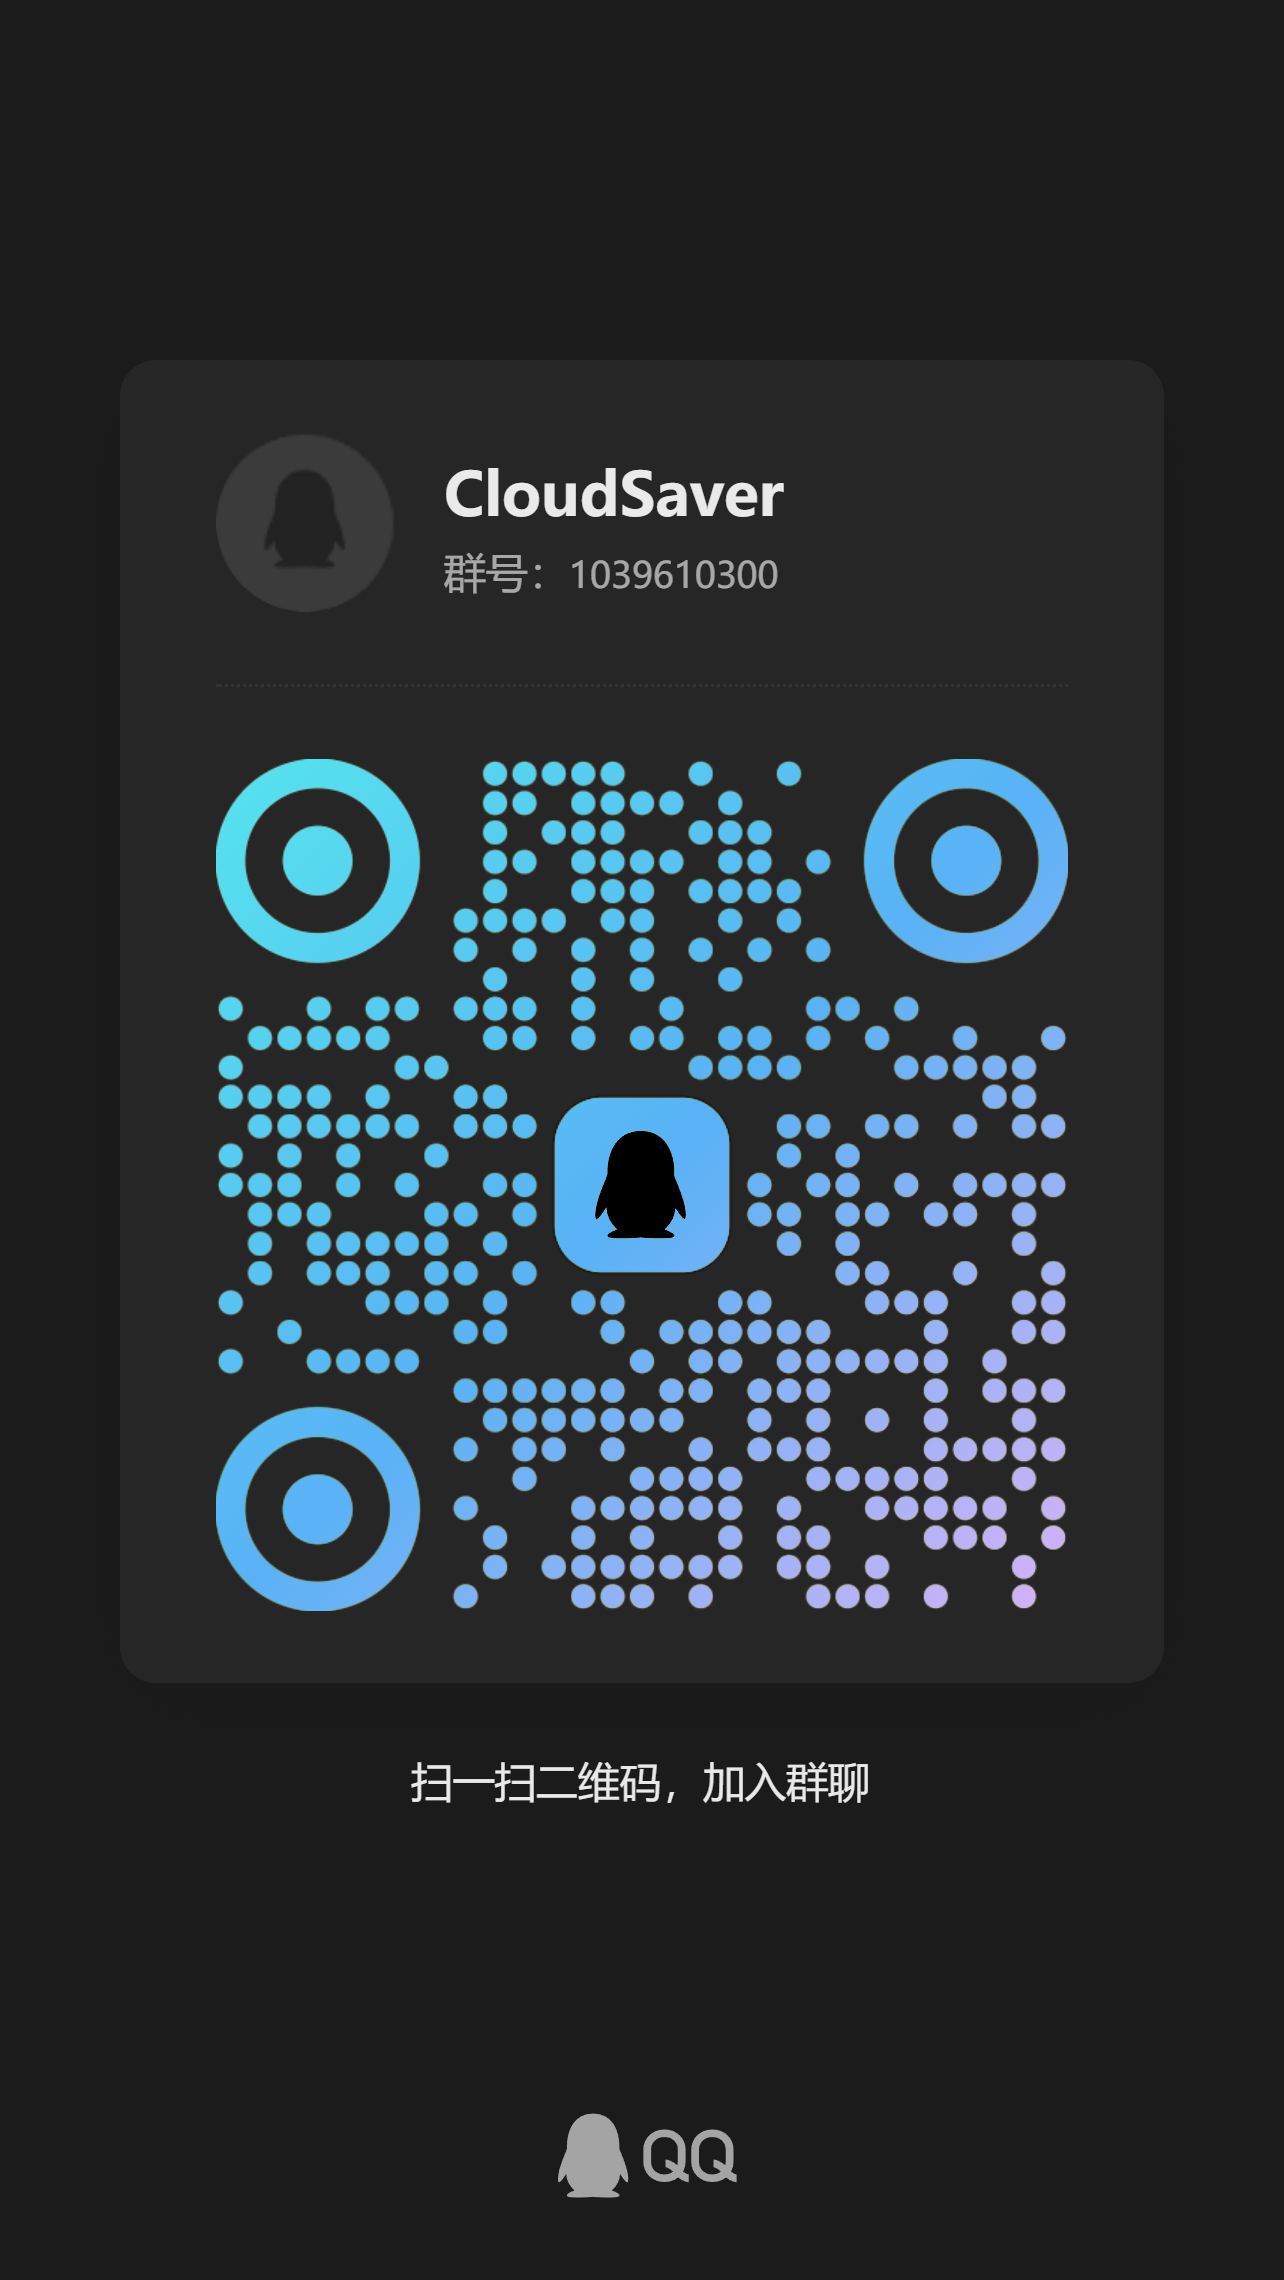
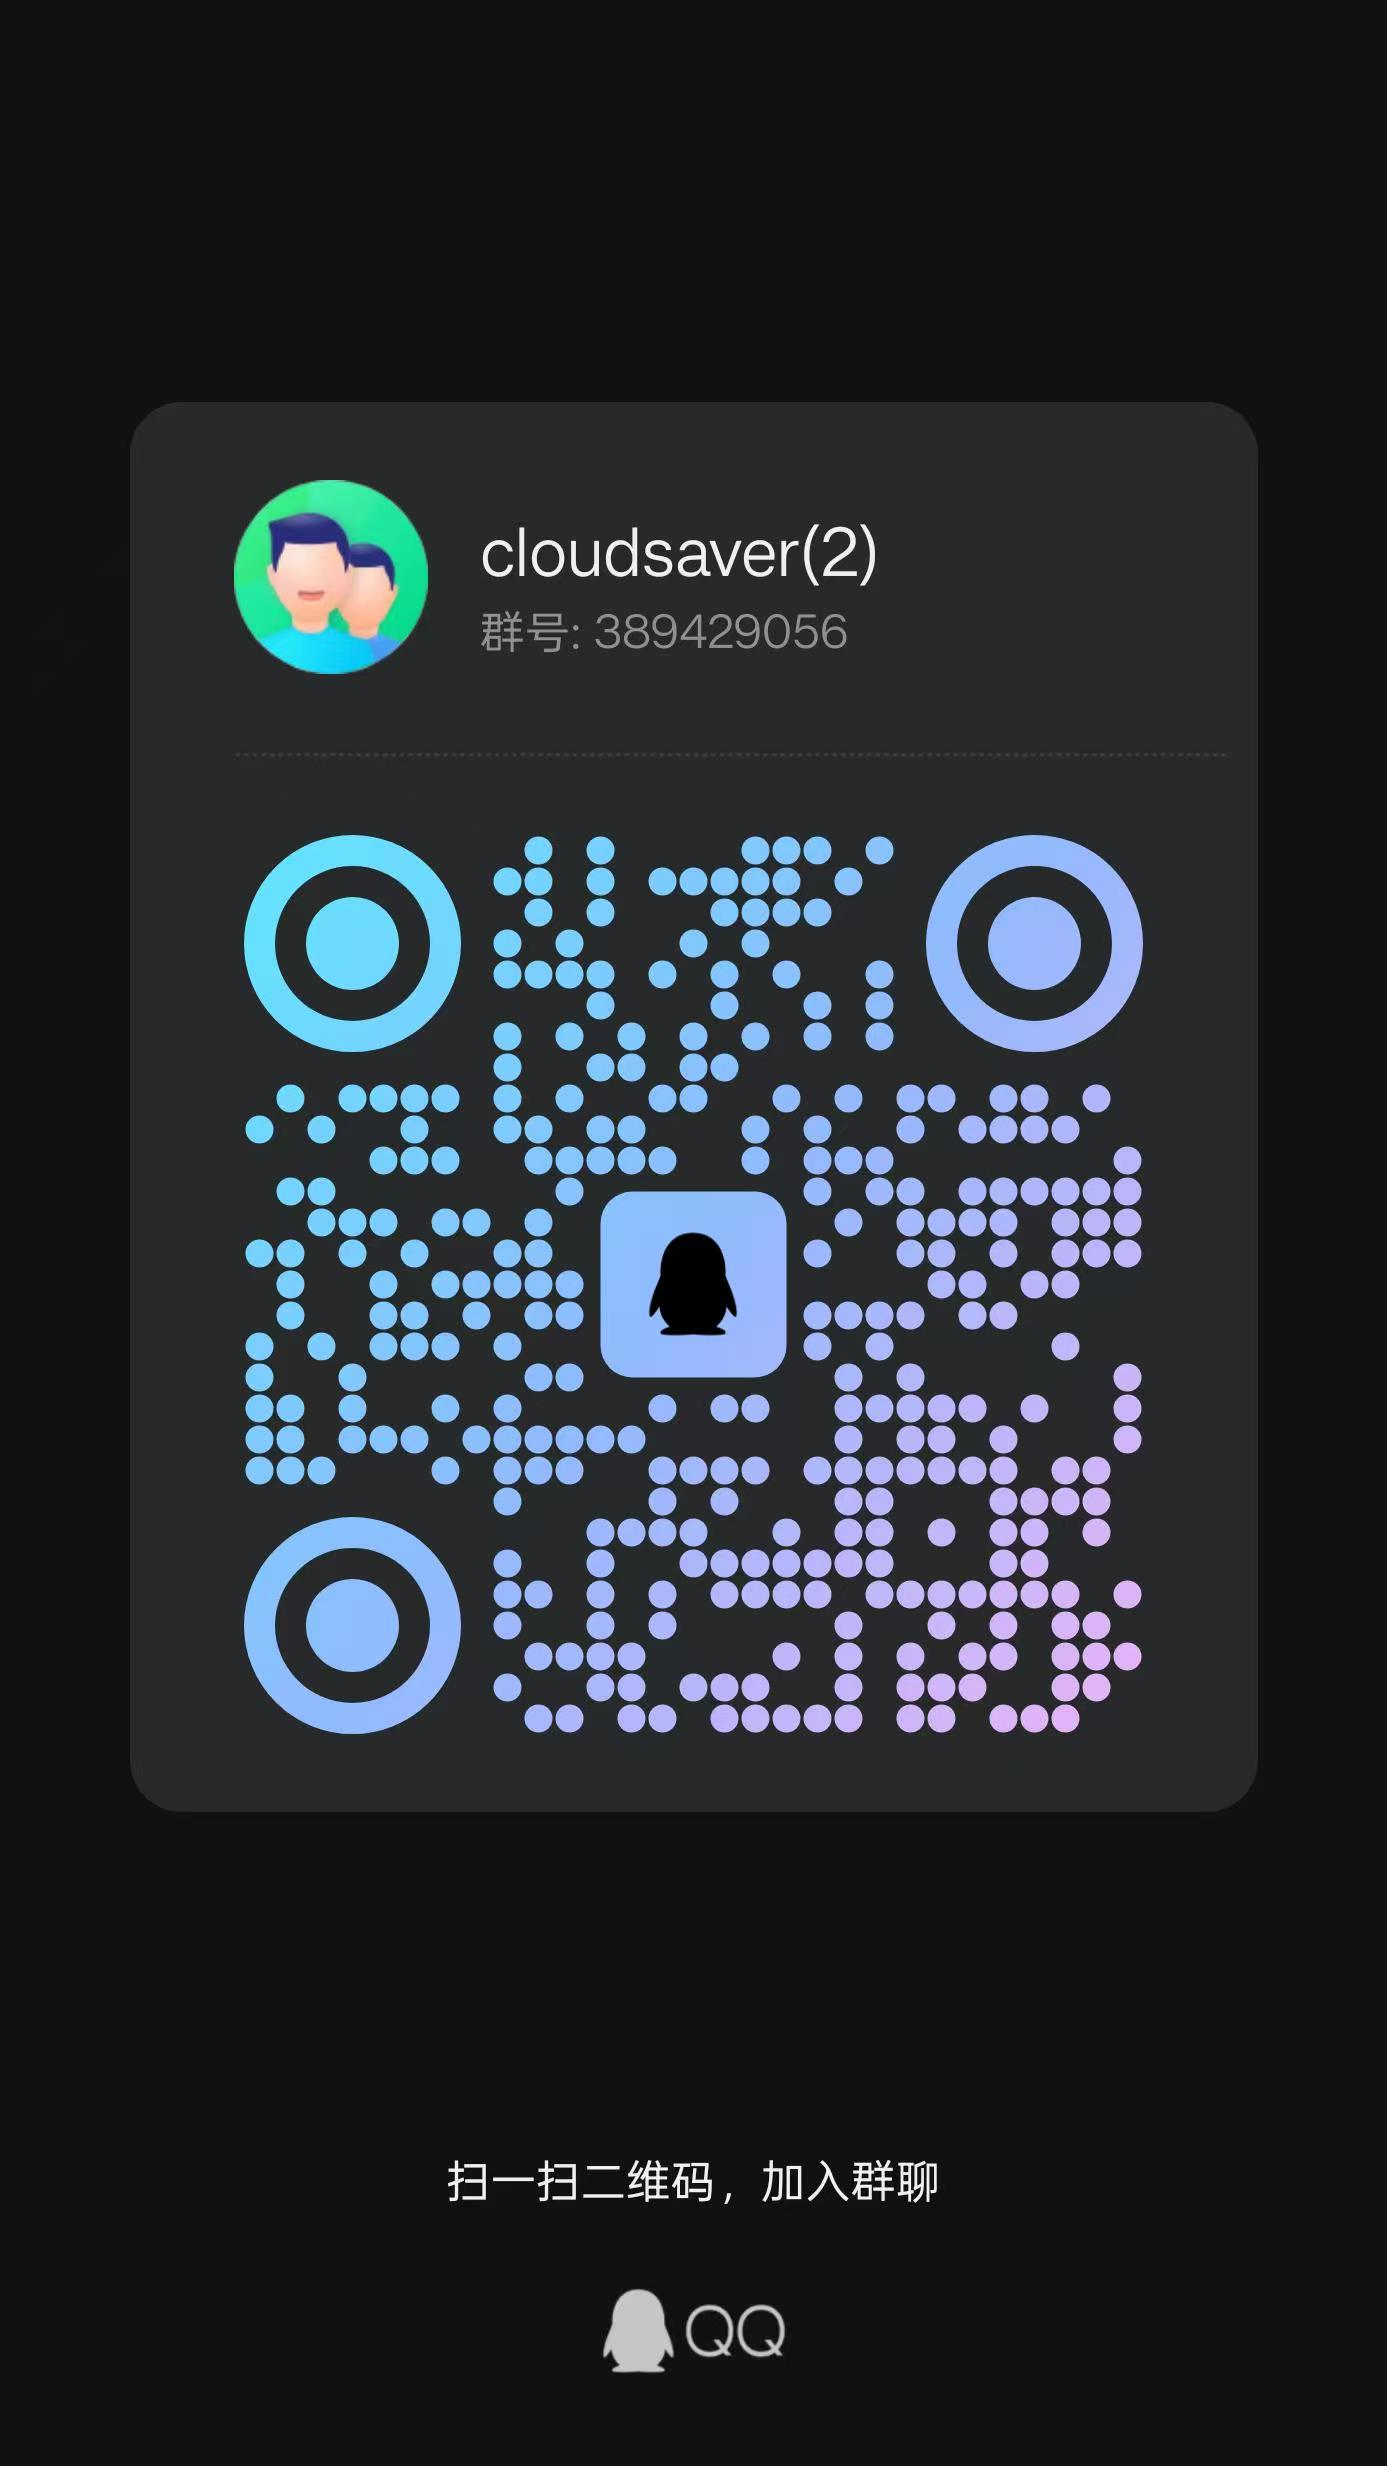
doc:更新群二维码

diff --git a/README.md b/README.md
@@ -9,8 +9,6 @@
 
 一个基于 Vue 3 + Express 的网盘资源搜索与转存工具，支持响应式布局，移动端与PC完美适配，可通过 Docker 一键部署。
 
-
-
 官方Telegram群组：[https://t.me/cloud_saver](https://t.me/cloud_saver)
 
 官方QQ交流群（[二维码](https://github.com/jiangrui1994/CloudSaver?tab=readme-ov-file#%E8%81%94%E7%B3%BB%E6%96%B9%E5%BC%8F)）：
@@ -24,10 +22,10 @@
 CloudSaver部署与使用常见问题(包含更多搜索频道)：[https://www.yuque.com/xiaoruihenbangde/ggogn3/ga6gaaiy5fsyw62l](https://www.yuque.com/xiaoruihenbangde/ggogn3/ga6gaaiy5fsyw62l)
 密码 me16 点个Star呗~
 
-
 ⚠关于项目更新与需求处理的核心声明：[https://www.yuque.com/xiaoruihenbangde/ggogn3/gt9cgqn2n3vergxx](https://www.yuque.com/xiaoruihenbangde/ggogn3/gt9cgqn2n3vergxx)
 
 ---
+
 ⚠**由于某些原因，[新版本](https://www.yuque.com/xiaoruihenbangde/ggogn3/vxoqxkx4rkcz3g94)内容不包含在此开源仓库(停留在V0.2.5版本)，如需使用，请使用docker镜像进行部署使用。**
 
 ---
@@ -305,7 +303,7 @@ docker-compose up -d
 <div align="center">
   <div>
     <img src="./docs/images/qq.jpg" height="360" alt="qq群">
-    <p>qq交流群(满了)</p>
+    <p>qq交流群(2群)</p>
   </div>
 </div>
 
@@ -351,6 +349,5 @@ docker-compose up -d
 - 👨💻 感谢所有为这个项目做出贡献的开发者们！
 - 👥 感谢所有使用本项目并提供反馈的用户！
 - 感谢所有给予支持和鼓励的朋友们！
-
 
 [![Stargazers over time](https://starchart.cc/jiangrui1994/cloudsaver.svg?variant=adaptive)](https://starchart.cc/jiangrui1994/cloudsaver)
